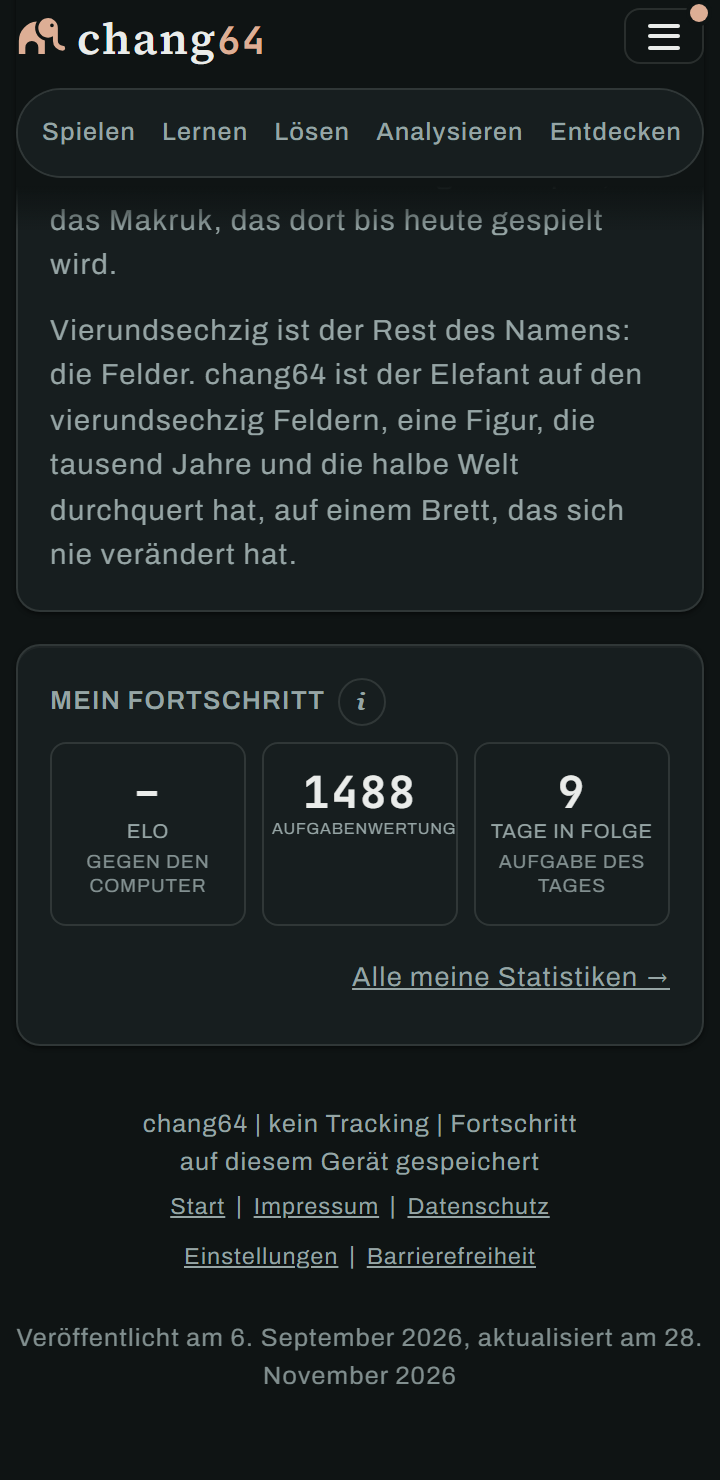
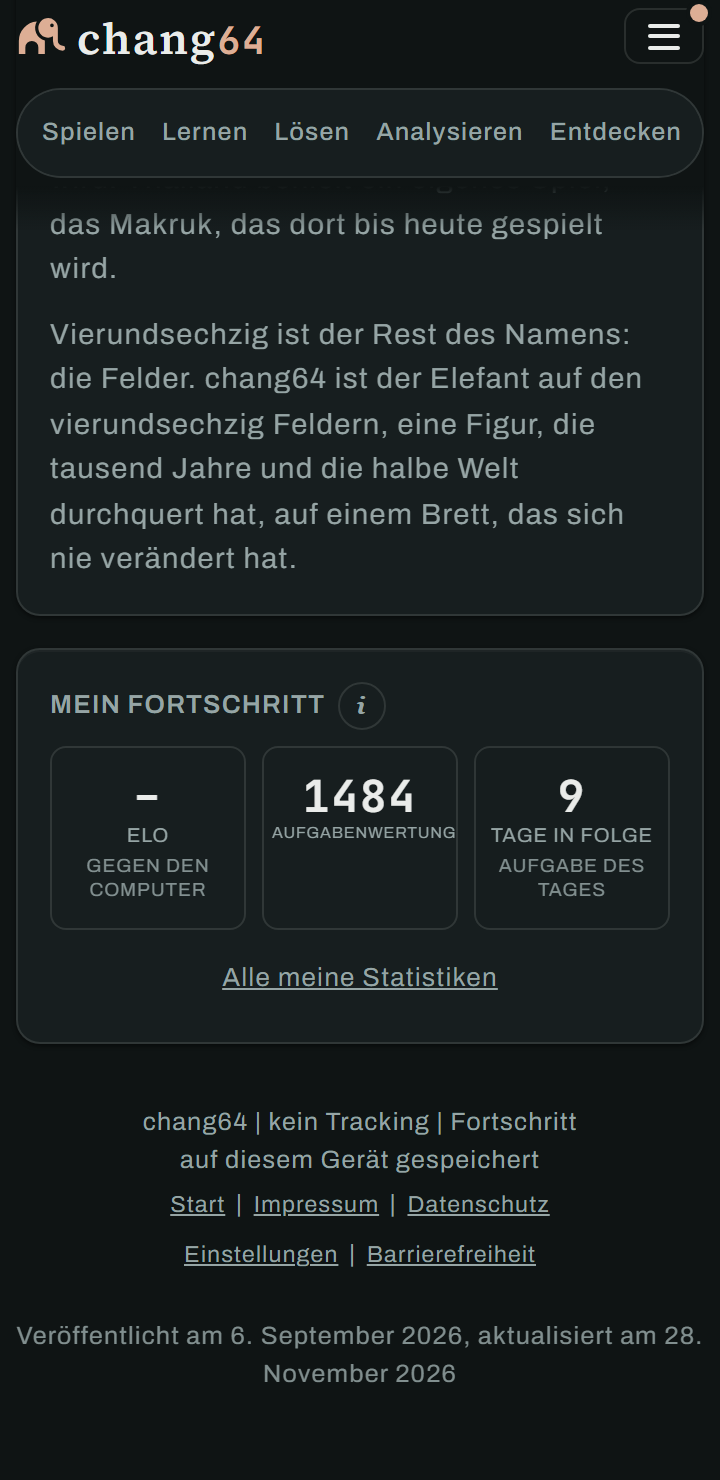
Correctifs 27/11, point 15 : « Toutes mes statistiques » prend le style de « Signaler cet exercice » (centre, souligne, sans fleche ; choix B d'Alexandre)

diff --git a/src/template.html b/src/template.html
@@ -579,8 +579,10 @@ header::after{content:"";position:absolute;left:0;right:0;top:100%;height:22px;
    l'ordinateur depuis ici » chacun sur sa rangee, pour qu'aucun des deux
    libelles ne passe sur deux lignes (mesure du 2026-11-22, dix langues). */
 @media(max-width:599px){#editAnalyse,#editPlay{flex:1 1 100%}}
-.home-stats-lien{margin:10px 0 0;text-align:right}
-.home-stats-lien .linkbtn{font-size:13.5px;padding-right:0}
+/* 27/11 (choix B d'Alexandre) : meme style que « Signaler cet exercice »,
+   centre, souligne, sans fleche. */
+.home-stats-lien{margin:8px 0 0;text-align:center}
+.home-stats-lien .linkbtn{font-size:13px}
 .strip .stat{background-color:var(--slate);border:1px solid var(--rule);border-radius:var(--r);padding:14px 10px;text-align:center}
 .strip .stat b{display:block;font-family:'JetBrains Mono',monospace;font-size:22px;font-weight:600;line-height:1.2}
 .strip .stat span{display:block;font-size:10px;letter-spacing:.1em;text-transform:uppercase;color:var(--sage)}
@@ -3276,7 +3278,7 @@ html[data-mouvement="calme"] .btn.reflet::after{display:none}
         <div class="stat"><b id="hRating">800</b><span>Puzzle rating</span></div>
         <div class="stat"><b id="hStreak">0</b><span>Day streak</span><em>Puzzle of the day</em></div>
       </div>
-      <p class="home-stats-lien"><button type="button" class="linkbtn" id="homeStatsBtn">All my statistics →</button></p>
+      <p class="home-stats-lien"><button type="button" class="linkbtn" id="homeStatsBtn">All my statistics</button></p>
       <div class="startline hide" id="homeStart">
         <span>Your progress will show up here. It is waiting for your first move.</span>
         <button class="linkbtn" id="homeStartBtn">Solve your first puzzle →</button>

diff --git a/src/langues/ru/app.js b/src/langues/ru/app.js
@@ -1243,7 +1243,7 @@ module.exports = {
 "Elo over time":"Эло во времени",
 "Your latest games":"Твои последние партии",
 "{pc} of games won":"{pc} партий выиграно",
-"All my statistics →":"Вся моя статистика →",
+"All my statistics":"Вся моя статистика",
 "Elo measures your games against the computer. The puzzle rating comes from Puzzles alone. The day streak counts only the puzzle of the day. Everything else is in Statistics, in the menu.":"Эло измеряет твои партии против компьютера. Рейтинг задач зависит только от Задач. «Дней подряд» учитывает только задачу дня. Всё остальное находится в Статистике, в меню.",
 "Load a game":"Загрузить партию",
 "Read the article on this endgame":"Читать статью об этом эндшпиле",

diff --git a/src/tests/check_correctifs_2711.js b/src/tests/check_correctifs_2711.js
@@ -137,6 +137,14 @@ const LANGUES = ["fr", "en", "es", "pt", "de", "ru", "it", "tr", "pl", "id"];
     }
   }
 
+  console.log("--- 15. « Toutes mes statistiques » comme « Signaler cet exercice » ---");
+  {
+    const b = $("homeStatsBtn"), css = lire("template.html");
+    T("le lien dit « Toutes mes statistiques », sans fleche", b && net(b.textContent) === "Toutes mes statistiques", b && b.textContent);
+    T("centre, 13 px, comme Signaler", /\.home-stats-lien\{margin:8px 0 0;text-align:center\}/.test(css) && /\.home-stats-lien \.linkbtn\{font-size:13px\}/.test(css) && /\.signaler \.linkbtn\{font-size:13px/.test(css));
+    T("la cle traduite existe dans les 9 langues", ["de", "es", "fr", "id", "it", "pl", "pt", "ru", "tr"].every(l => /"All my statistics":"[^"→]+"/.test(lire("langues/" + l + "/app.js"))));
+  }
+
   w.close();
   console.log("\n=== " + ok + " OK, " + ko + " FAIL ===");
   process.exit(ko ? 1 : 0);

diff --git a/src/langues/es/app.js b/src/langues/es/app.js
@@ -1243,7 +1243,7 @@ module.exports = {
 "Elo over time":"Elo a lo largo del tiempo",
 "Your latest games":"Tus últimas partidas",
 "{pc} of games won":"{pc} de partidas ganadas",
-"All my statistics →":"Todas mis estadísticas →",
+"All my statistics":"Todas mis estadísticas",
 "Elo measures your games against the computer. The puzzle rating comes from Puzzles alone. The day streak counts only the puzzle of the day. Everything else is in Statistics, in the menu.":"El Elo mide tus partidas contra el ordenador. La puntuación de ejercicios sale solo de Ejercicios. Los días seguidos solo cuentan el ejercicio del día. Todo lo demás está en Estadísticas, en el menú.",
 "Load a game":"Cargar una partida",
 "Read the article on this endgame":"Leer el artículo sobre este final",

diff --git a/src/langues/pt/app.js b/src/langues/pt/app.js
@@ -1243,7 +1243,7 @@ module.exports = {
 "Elo over time":"Elo ao longo do tempo",
 "Your latest games":"Suas últimas partidas",
 "{pc} of games won":"{pc} de partidas vencidas",
-"All my statistics →":"Todas as minhas estatísticas →",
+"All my statistics":"Todas as minhas estatísticas",
 "Elo measures your games against the computer. The puzzle rating comes from Puzzles alone. The day streak counts only the puzzle of the day. Everything else is in Statistics, in the menu.":"O Elo mede suas partidas contra o computador. A pontuação de exercícios vem só de Exercícios. Os dias seguidos contam só o exercício do dia. Todo o resto está em Estatísticas, no menu.",
 "Load a game":"Carregar uma partida",
 "Read the article on this endgame":"Ler o artigo sobre este final",

diff --git a/src/langues/fr/app.js b/src/langues/fr/app.js
@@ -1094,7 +1094,7 @@ module.exports = {
 "Elo over time":"Elo dans le temps",
 "Your latest games":"Tes dernières parties",
 "{pc} of games won":"{pc} de parties gagnées",
-"All my statistics →":"Toutes mes statistiques →",
+"All my statistics":"Toutes mes statistiques",
 "Elo measures your games against the computer. The puzzle rating comes from Puzzles alone. The day streak counts only the puzzle of the day. Everything else is in Statistics, in the menu.":"L'Elo mesure tes parties contre l'ordinateur. Le niveau exercices ne vient que des Exercices. Les jours d'affilée ne comptent que l'exercice du jour. Tout le reste est dans Statistiques, dans le menu.",
 "Load a game":"Charger une partie",
 "Read the article on this endgame":"Lire l'article sur cette finale",

diff --git a/src/langues/de/app.js b/src/langues/de/app.js
@@ -1243,7 +1243,7 @@ module.exports = {
 "Elo over time":"Elo im Zeitverlauf",
 "Your latest games":"Deine letzten Partien",
 "{pc} of games won":"{pc} der Partien gewonnen",
-"All my statistics →":"Alle meine Statistiken →",
+"All my statistics":"Alle meine Statistiken",
 "Elo measures your games against the computer. The puzzle rating comes from Puzzles alone. The day streak counts only the puzzle of the day. Everything else is in Statistics, in the menu.":"Elo misst deine Partien gegen den Computer. Die Aufgabenwertung stammt nur aus den Aufgaben. „Tage in Folge“ zählt nur die Aufgabe des Tages. Alles andere steht unter Statistiken, im Menü.",
 "Load a game":"Partie laden",
 "Read the article on this endgame":"Den Artikel zu diesem Endspiel lesen",

diff --git a/src/langues/tr/app.js b/src/langues/tr/app.js
@@ -1241,7 +1241,7 @@ module.exports = {
 "Elo over time":"Zaman içinde Elo",
 "Your latest games":"Son oyunların",
 "{pc} of games won":"Kazanılan oyunlar: {pc}",
-"All my statistics →":"Tüm istatistiklerim →",
+"All my statistics":"Tüm istatistiklerim",
 "Elo measures your games against the computer. The puzzle rating comes from Puzzles alone. The day streak counts only the puzzle of the day. Everything else is in Statistics, in the menu.":"Elo, bilgisayara karşı oynadığın oyunları ölçer. Bulmaca puanı yalnızca Bulmacalar'dan gelir. Günlük seri yalnızca günün bulmacasını sayar. Geri kalan her şey menüdeki İstatistikler'de.",
 "Load a game":"Oyun yükle",
 "Read the article on this endgame":"Bu oyun sonuyla ilgili yazıyı oku",

diff --git a/src/langues/it/app.js b/src/langues/it/app.js
@@ -1241,7 +1241,7 @@ module.exports = {
 "Elo over time":"Elo nel tempo",
 "Your latest games":"Le tue ultime partite",
 "{pc} of games won":"{pc} di partite vinte",
-"All my statistics →":"Tutte le mie statistiche →",
+"All my statistics":"Tutte le mie statistiche",
 "Elo measures your games against the computer. The puzzle rating comes from Puzzles alone. The day streak counts only the puzzle of the day. Everything else is in Statistics, in the menu.":"L'Elo misura le tue partite contro il computer. Il punteggio esercizi viene solo dagli Esercizi. Giorni di fila conta solo l'esercizio del giorno. Tutto il resto è in Statistiche, nel menu.",
 "Load a game":"Carica una partita",
 "Read the article on this endgame":"Leggi l'articolo su questo finale",

diff --git a/src/langues/id/app.js b/src/langues/id/app.js
@@ -1241,7 +1241,7 @@ module.exports = {
 "Elo over time":"Elo dari waktu ke waktu",
 "Your latest games":"Partai terakhirmu",
 "{pc} of games won":"{pc} partai dimenangkan",
-"All my statistics →":"Semua statistikku →",
+"All my statistics":"Semua statistikku",
 "Elo measures your games against the computer. The puzzle rating comes from Puzzles alone. The day streak counts only the puzzle of the day. Everything else is in Statistics, in the menu.":"Elo mengukur partaimu melawan komputer. Rating teka-teki hanya berasal dari Teka-teki. Hari beruntun hanya menghitung teka-teki hari ini. Sisanya ada di Statistik, di menu.",
 "Load a game":"Muat partai",
 "Read the article on this endgame":"Baca artikel tentang permainan akhir ini",

diff --git a/src/langues/pl/app.js b/src/langues/pl/app.js
@@ -1241,7 +1241,7 @@ module.exports = {
 "Elo over time":"Elo w czasie",
 "Your latest games":"Twoje ostatnie partie",
 "{pc} of games won":"{pc} wygranych partii",
-"All my statistics →":"Wszystkie moje statystyki →",
+"All my statistics":"Wszystkie moje statystyki",
 "Elo measures your games against the computer. The puzzle rating comes from Puzzles alone. The day streak counts only the puzzle of the day. Everything else is in Statistics, in the menu.":"Elo mierzy twoje partie z komputerem. Ranking zadań pochodzi wyłącznie z Zadań. Dni z rzędu liczą tylko zadanie dnia. Cała reszta jest w Statystykach, w menu.",
 "Load a game":"Wczytaj partię",
 "Read the article on this endgame":"Przeczytaj artykuł o tej końcówce",
